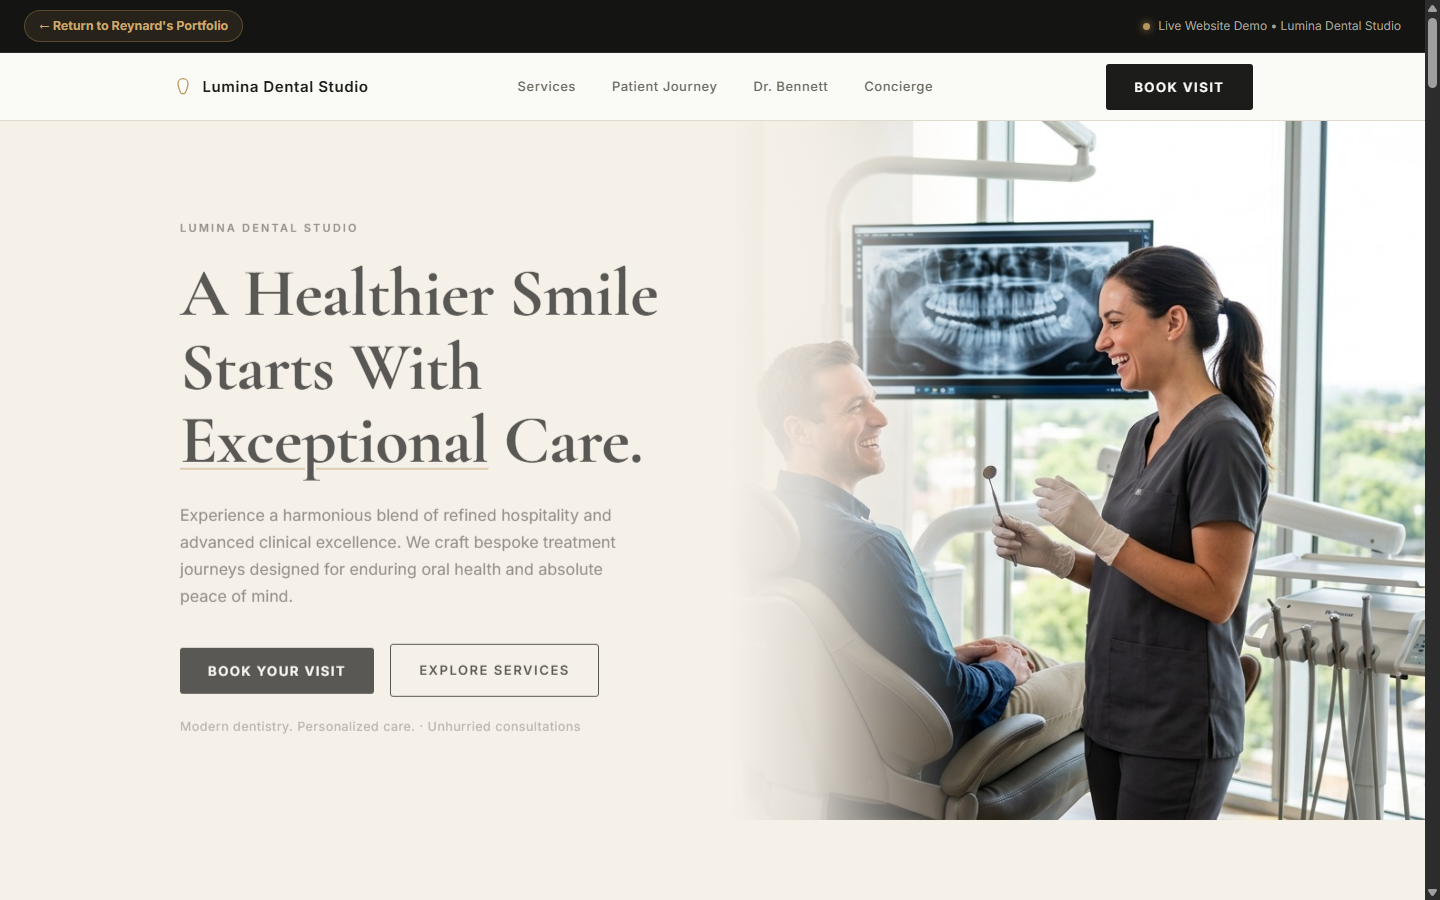
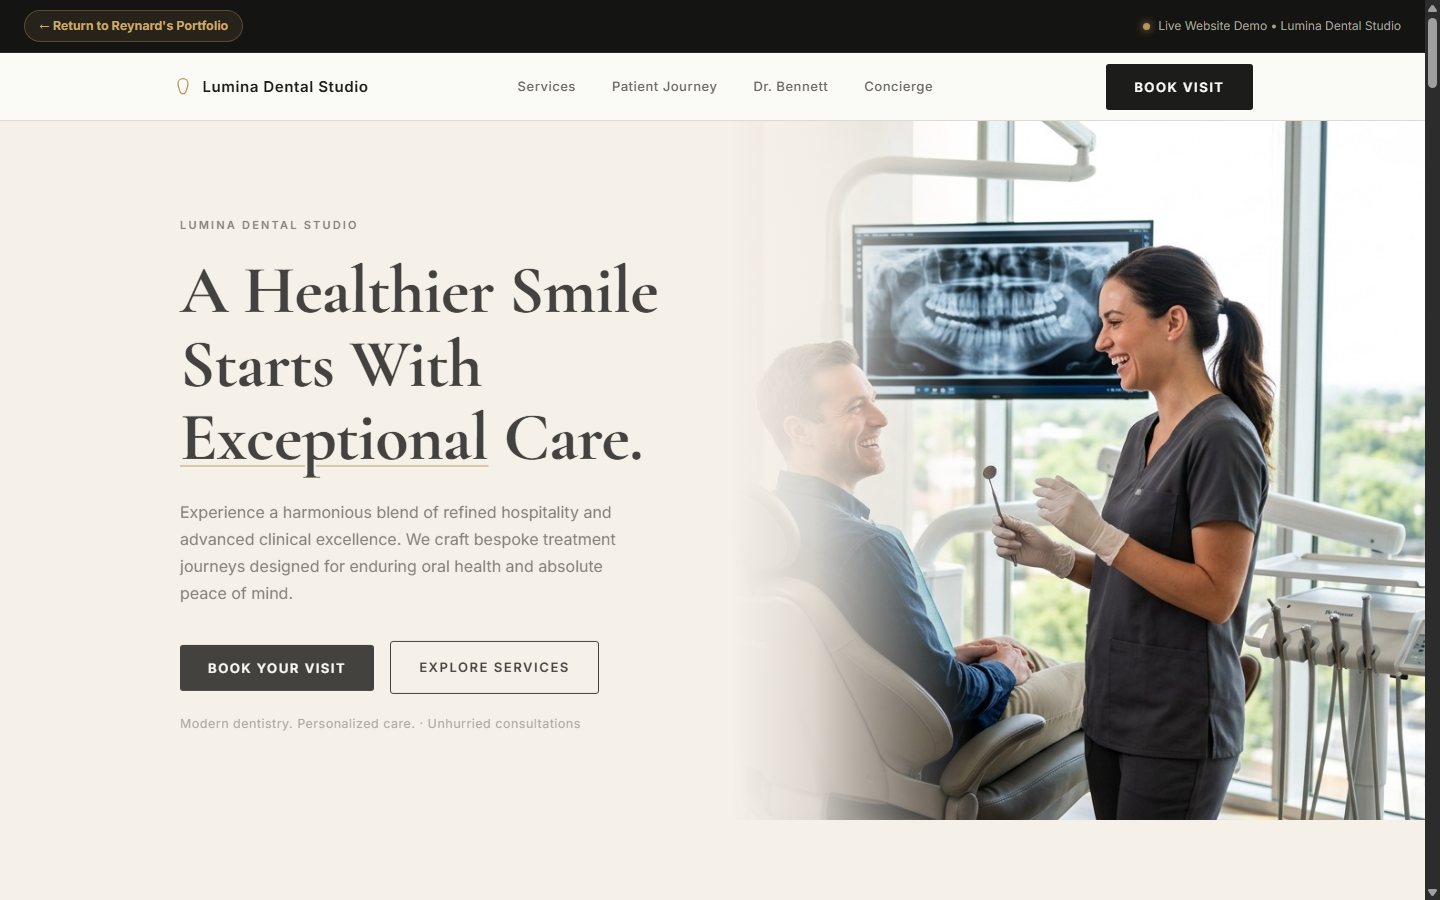
fix: eliminate scroll reveal delay so Lumina Dental hero text renders with 100% visibility

diff --git a/public/samples/lumina-dental.html b/public/samples/lumina-dental.html
@@ -317,7 +317,7 @@ footer{background:var(--dark);padding:72px 0 32px}
 .form-micro{margin-top:12px;font-size:12px;color:var(--muted-light);text-align:center;font-style:italic}
 
 /* ─── Scroll-reveal ─────────────────────────────────────────────────── */
-.reveal{opacity:0;transform:translateY(28px);transition:opacity .7s ease,transform .7s ease}
+.reveal{opacity:1;transform:none;transition:opacity .5s ease,transform .5s ease}
 .reveal.visible{opacity:1;transform:translateY(0)}
 
 /* ─── RESPONSIVE ────────────────────────────────────────────────────── */
